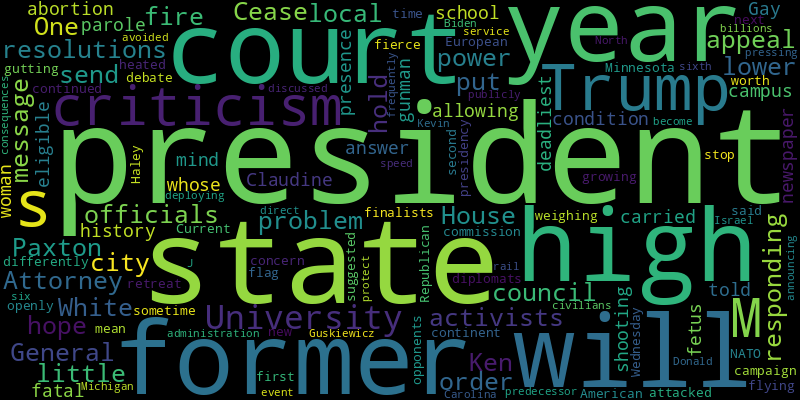
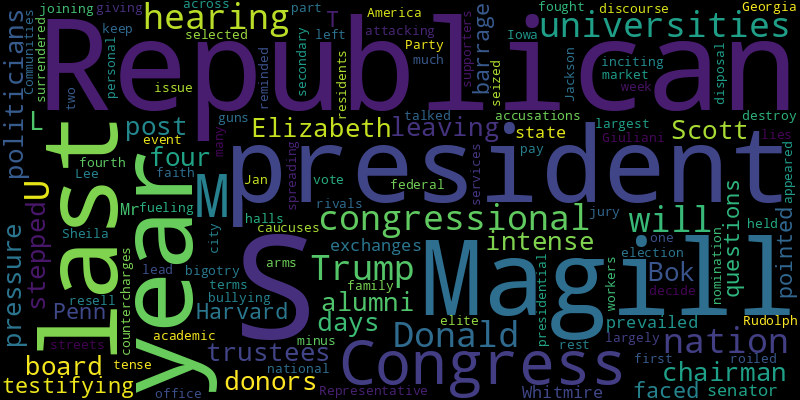
chore(bot): 🟩 auto commit

diff --git a/README.md b/README.md
@@ -2,29 +2,29 @@
 Auto RSS New York Times and Generate Word Cloud
 
 ## New York Times Global News
+* Prime Minister Benjamin Netanyahu gambled that a strong Hamas (but not too strong) would keep the peace and reduce pressure for a Palestinian state.
+* President Abdel Fattah el-Sisi of Egypt grew increasingly unpopular amid a deep economic crisis. But the war in neighboring Gaza has given him a vital role on the international stage.
+* Anton Thomas, a New Zealander in Melbourne, Australia, has given three years of his life to a hand-drawn map of our planet and its animal inhabitants.
+* In bitter debates from Israel to Africa to America, invoking a brutal history has become a powerful accusation.
+* Fighting in Khan Younis, the southern city where Israel believes Hamas’s leaders are hiding, has intensified, the Israeli military said.
+* Iran-backed forces are assembling drones and retrofitting rockets in the territory of an American ally. They are used in attacks on U.S. outposts in Iraq and Syria.
+* At least 14 people were killed in a clash between the gunmen and members of a small farming community in central Mexico, an episode that the state authorities cast as a gang extortion attempt that backfired.
 * A government crackdown on neon signs stems from safety and environmental concerns, but the campaign evokes the fading of the city itself.
+* It has gained prestige among Palestinians while poisoning Israel’s relations with the Arab world and putting the Palestinian issue back on the Western agenda.
 * The annual U.N. talks have brought the rare spectacle of limited protests to the politically repressive United Arab Emirates.
-* With millions-long lines for routine surgery, it has become more common for patients to pay for procedures. That carries risks for the future of the treasured public system.
-* A man with close ties to the Kremlin went looking for and found the remains of World War I Russian soldiers in France. Moscow hopes to use the discovery for diplomatic purposes.
-* Rights groups and aid organizations criticized a U.S. decision at the United Nations Security Council to block a resolution for an immediate cease-fire in Gaza.
-* The veto came amid a warning that “civil order is breaking down” in Gaza, and a day after the Biden administration warned that Israel’s military had not done enough to reduce harm to civilians.
-* The Iranian-backed militia in Yemen has launched drone and missile attacks on Israeli and American targets. American officials fear the group could go too far and incite a wider war.
-* The teacher, Samuel Paty, was beheaded in 2020 by an Islamist extremist after showing caricatures of the Prophet Muhammad to his students to illustrate free speech.
-* The announcement was long expected after the Constitution was amended in 2020, effectively allowing the Russian leader to stay in power until 2036.
-* The men created extremist manifestoes and recruiting videos, officials say.
 
 ![Global](./global.png)
 ## New York Times United States News
-* Cease-fire activists hope that city council resolutions will send a message to the White House. One problem: local officials have little power.
-* The court, responding to an appeal from Attorney General Ken Paxton, put on hold a lower court order allowing an abortion for a woman whose fetus has a fatal condition.
-* The gunman, who carried out the deadliest high school shooting in the history of the state, will not be eligible for parole.
-* The president, Claudine Gay, told the campus newspaper that she “should have had the presence of mind” to answer differently.
-* A commission is weighing 6 finalists, and a new state flag could be flying in Minnesota by sometime next year.
-* Current and former European diplomats said there was growing concern a second Trump presidency could mean an American retreat from the continent and a gutting of NATO.
-* In her first campaign stop since Wednesday’s heated Republican debate, Ms. Haley suggested that fierce criticism from her opponents continued to not be worth her time.
-* The president openly attacked his predecessor, former President Donald J. Trump, deploying direct criticism he has frequently avoided, at an event announcing billions for high-speed rail service.
-* The Biden administration is pressing Israel to do more to protect civilians. But it has not publicly discussed any consequences if it does not.
-* Kevin M. Guskiewicz of the University of North Carolina is to become Michigan State University’s sixth president in six years.
+* The president, Elizabeth Magill, and the chairman of the board of trustees, Scott L. Bok, are leaving after intense pressure from donors, politicians and alumni.
+* Ms. Magill, who had been in her post since last year, stepped down four days after testifying before Congress.
+* The presidents of Harvard, M.I.T. and Penn faced a barrage of questions at a congressional hearing. Here are some of the most pointed exchanges.
+* Mr. Whitmire, a state senator, prevailed over U.S. Representative Sheila Jackson Lee to lead the nation’s fourth-largest city.
+* Republicans have been attacking elite universities for years. After a tense congressional hearing last week, many on the left are joining them.
+* From the halls of Congress to America’s streets and universities, a once largely academic issue has roiled national discourse, inciting accusations of bigotry and countercharges of bullying.
+* A federal jury will be selected to decide how much Rudolph Giuliani should pay for spreading lies about two Georgia election workers as he fought to keep Donald Trump in office.
+* Communities across the U.S. are fueling a secondary arms market by giving seized and surrendered guns to disposal services that destroy one part and resell the rest.
+* The Iowa Republican Party reminded supporters that only residents can vote in the first-in-the-nation caucuses, which will be held on Jan. 15.
+* The rivals for the Republican presidential nomination — minus Donald Trump — appeared at a “faith and family” event and talked in more personal terms.
 
 ![US](./usnews.png)
 ## New York Times Asia News
